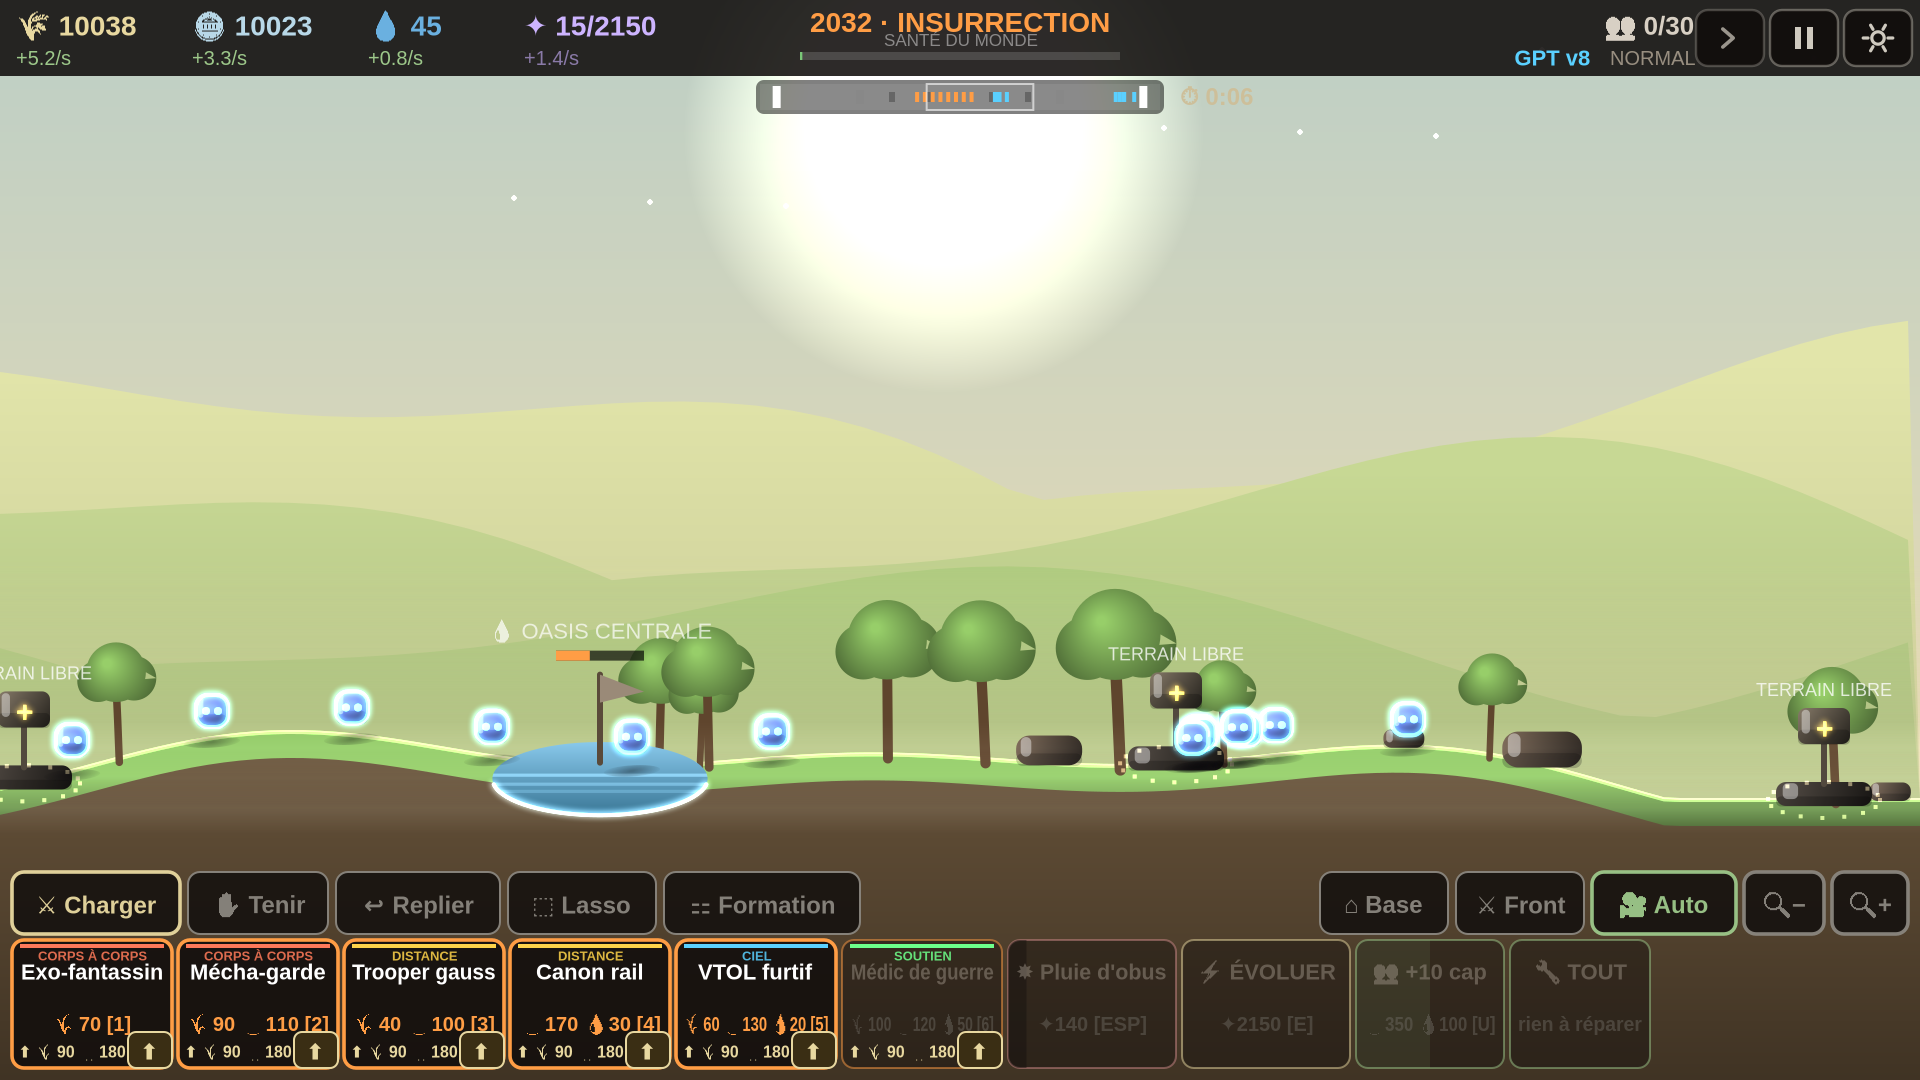
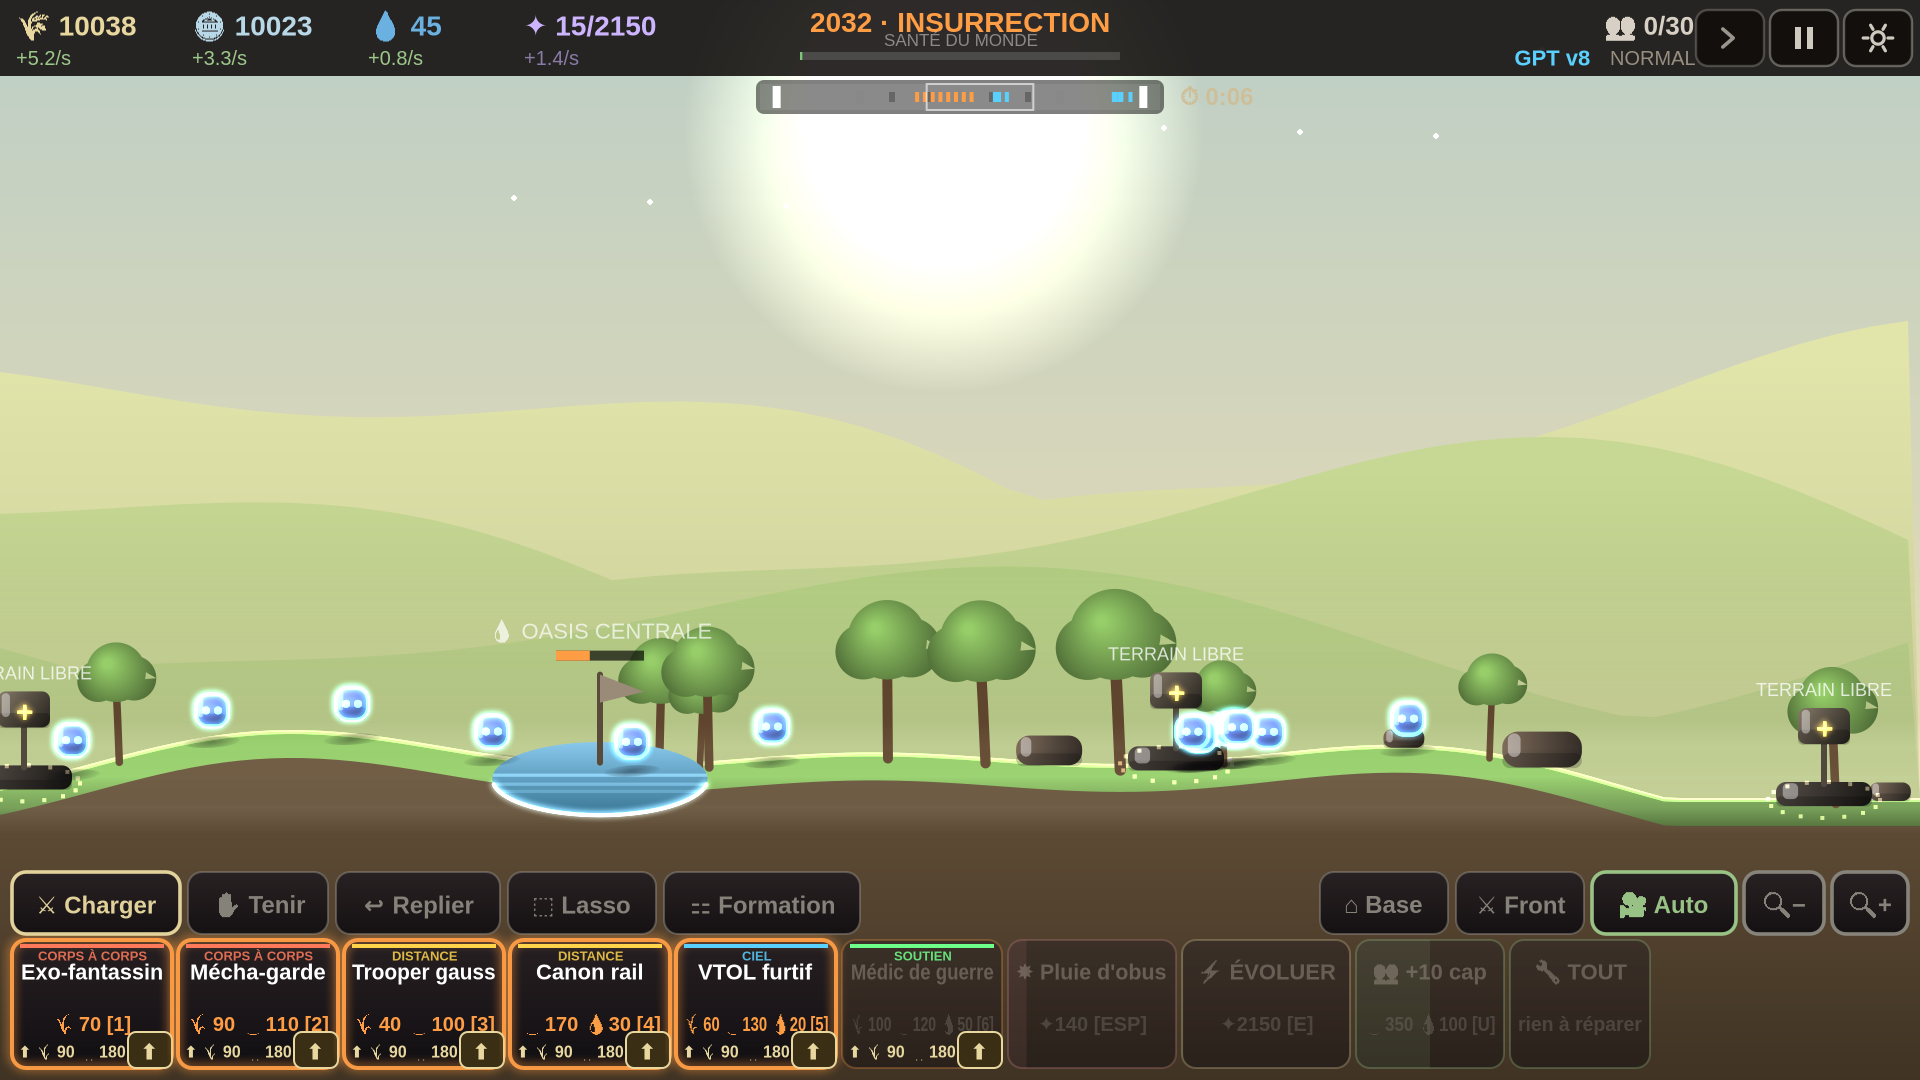
UI : boutons HUD dégradés + liseré lumineux (cohérence premium)
Claude-Session: https://claude.ai/code/session_01FX3Kq1dHJjkC9QhczkYQFK

diff --git a/guerre-des-eres.html b/guerre-des-eres.html
@@ -3396,11 +3396,13 @@ function drawBtn(b){
   } else if (b.type==='zoom'){
     label=b.label; ok=true; col='#8a867e';
   }
-  ctx.globalAlpha = small? 0.95 : ok?1:0.5;
-  ctx.fillStyle='rgba(20,16,14,0.92)'; rr(b.x,b.y,b.w,b.h,6); ctx.fill();
-  ctx.strokeStyle=col; ctx.lineWidth = ok?1.8:1; rr(b.x,b.y,b.w,b.h,6); ctx.stroke();
-  if (!small && prog<1){ ctx.fillStyle=col+'33'; ctx.save(); rr(b.x,b.y,b.w,b.h,6); ctx.clip();
+  ctx.globalAlpha = small? 0.96 : ok?1:0.5;
+  const bg=ctx.createLinearGradient(b.x,b.y,b.x,b.y+b.h); bg.addColorStop(0,'rgba(36,30,34,0.95)'); bg.addColorStop(1,'rgba(15,12,16,0.95)');
+  ctx.fillStyle=bg; rr(b.x,b.y,b.w,b.h,7); ctx.fill();
+  if (!small && prog<1){ ctx.fillStyle=rgbaC(col,0.22); ctx.save(); rr(b.x,b.y,b.w,b.h,7); ctx.clip();
     ctx.fillRect(b.x,b.y,b.w*prog,b.h); ctx.restore(); }
+  if (ok && !small){ ctx.save(); ctx.shadowColor=col; ctx.shadowBlur=8; ctx.strokeStyle=rgbaC(col,0.95); ctx.lineWidth=2; rr(b.x,b.y,b.w,b.h,7); ctx.stroke(); ctx.restore(); }
+  else { ctx.strokeStyle=ok?col:rgbaC(col,0.55); ctx.lineWidth=ok?1.8:1; rr(b.x,b.y,b.w,b.h,7); ctx.stroke(); }
   ctx.textAlign='center';
   if (small){
     ctx.font='700 12px Arial'; ctx.fillStyle = col;